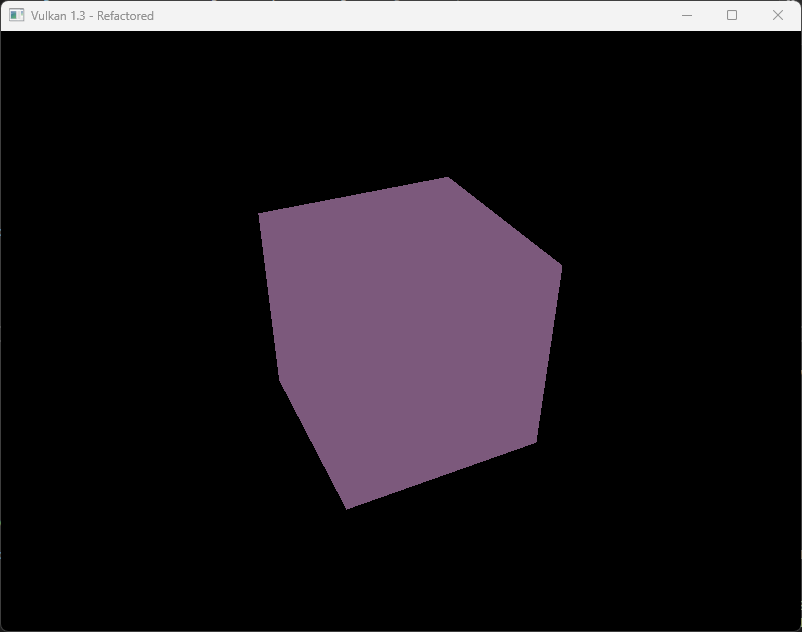
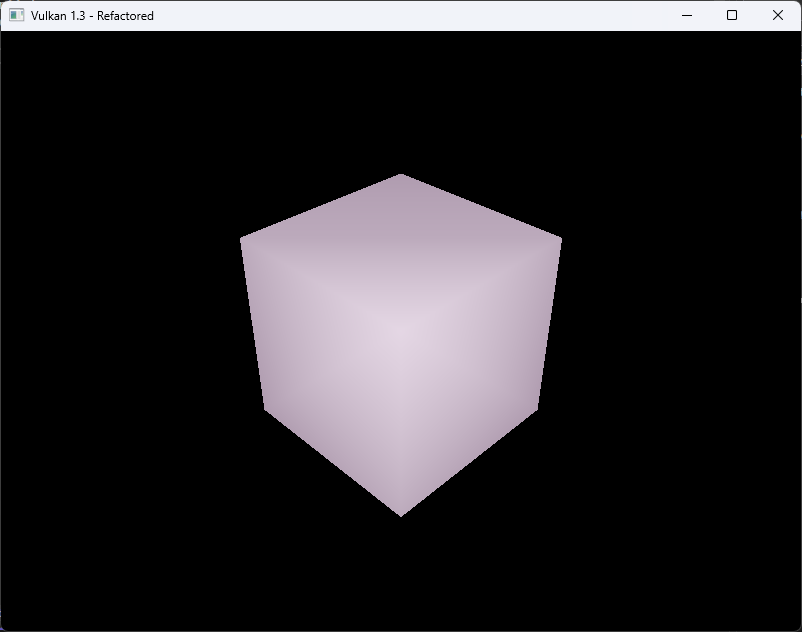
exercise 3 done!

diff --git a/Lab_Tutorial_Template.cpp b/Lab_Tutorial_Template.cpp
@@ -74,12 +74,14 @@ struct Vertex {
         return bindingDescription;
     }
 
-    static std::array<VkVertexInputAttributeDescription, 2> getAttributeDescriptions() {
-        std::array<VkVertexInputAttributeDescription, 2> attributeDescriptions{};
+    static std::array<VkVertexInputAttributeDescription, 3> getAttributeDescriptions() {
+        std::array<VkVertexInputAttributeDescription, 3> attributeDescriptions{};
         attributeDescriptions[0] = { 0, 0, VK_FORMAT_R32G32B32_SFLOAT, offsetof(Vertex, pos) };
         attributeDescriptions[1] = { 1, 0, VK_FORMAT_R32G32B32_SFLOAT, offsetof(Vertex, color) };
+        attributeDescriptions[2] = { 2, 0, VK_FORMAT_R32G32B32_SFLOAT, offsetof(Vertex, normal) };
         return attributeDescriptions;
     }
+
 };
 
 struct UniformBufferObject {
@@ -582,7 +584,7 @@ void HelloTriangleApplication::createDescriptorSetLayout() {
     uboLayoutBinding.binding = 0;
     uboLayoutBinding.descriptorCount = 1;
     uboLayoutBinding.descriptorType = VK_DESCRIPTOR_TYPE_UNIFORM_BUFFER;
-    uboLayoutBinding.stageFlags = VK_SHADER_STAGE_VERTEX_BIT;
+    uboLayoutBinding.stageFlags = VK_SHADER_STAGE_VERTEX_BIT | VK_SHADER_STAGE_FRAGMENT_BIT;
 
     VkDescriptorSetLayoutCreateInfo layoutInfo{};
     layoutInfo.sType = VK_STRUCTURE_TYPE_DESCRIPTOR_SET_LAYOUT_CREATE_INFO;
@@ -991,7 +993,7 @@ void HelloTriangleApplication::recordCommandBuffer(VkCommandBuffer commandBuffer
     VkBuffer vertexBuffers[] = { vertexBuffer };
     VkDeviceSize offsets[] = { 0 };
     vkCmdBindVertexBuffers(commandBuffer, 0, 1, vertexBuffers, offsets);
-    vkCmdBindIndexBuffer(commandBuffer, indexBuffer, 0, VK_INDEX_TYPE_UINT16);
+    //CmdBindIndexBuffer(commandBuffer, indexBuffer, 0, VK_INDEX_TYPE_UINT16);
     vkCmdBindDescriptorSets(commandBuffer, VK_PIPELINE_BIND_POINT_GRAPHICS, pipelineLayout, 0, 1, &descriptorSets[currentFrame], 0, nullptr);
     //vkCmdDrawIndexed(commandBuffer, static_cast<uint16_t>(indices.size()), 1, 0, 0, 0);
     vkCmdDraw(commandBuffer, static_cast<uint16_t>(vertices.size()), 1, 0, 0);
